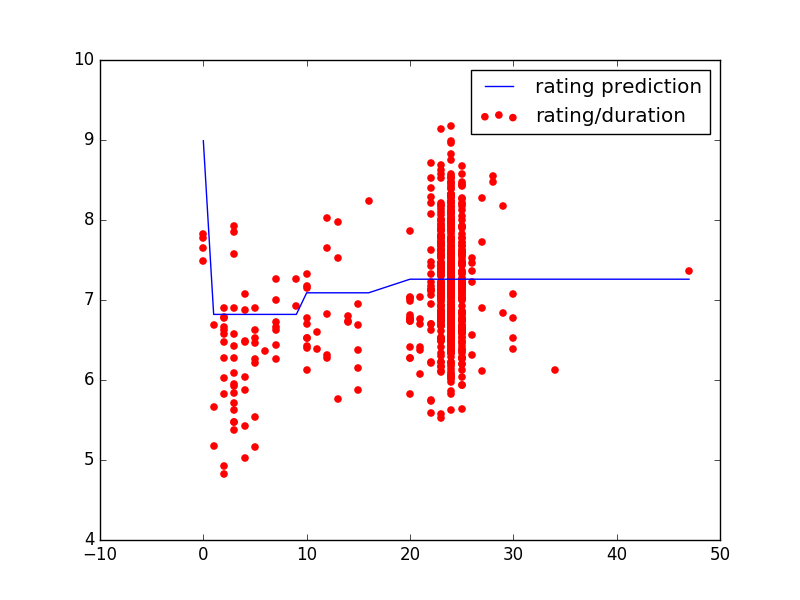
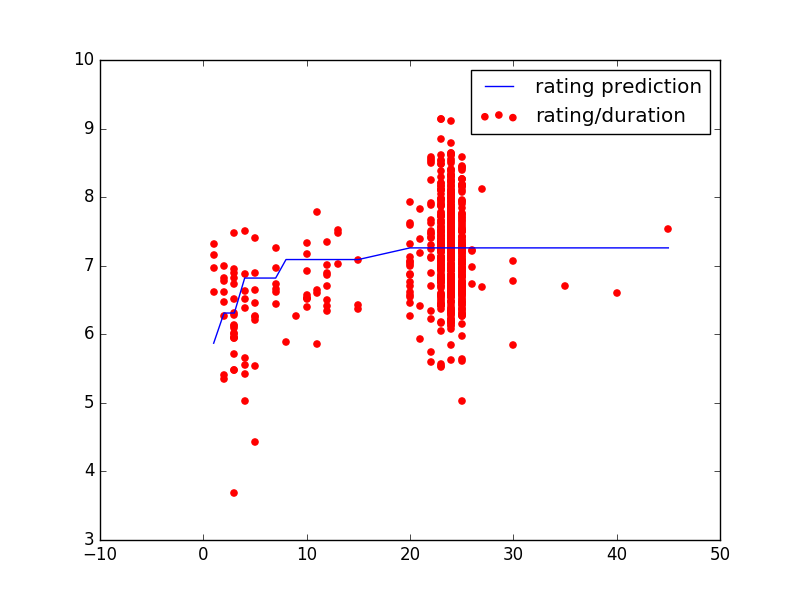
Throwing out duration zero anime

diff --git a/DataRepository/LinearRegressionTrial.py b/DataRepository/LinearRegressionTrial.py
@@ -46,6 +46,8 @@ if __name__=='__main__':
             y = [anime.ratingCount]
             graphLabel = 'rating/user rating count'
         elif (testType == TestType.duration):
+            if anime.duration <= 0:
+                continue
             y = [anime.duration]
             graphLabel = 'rating/duration'
         elif (testType == TestType.ageRating):
